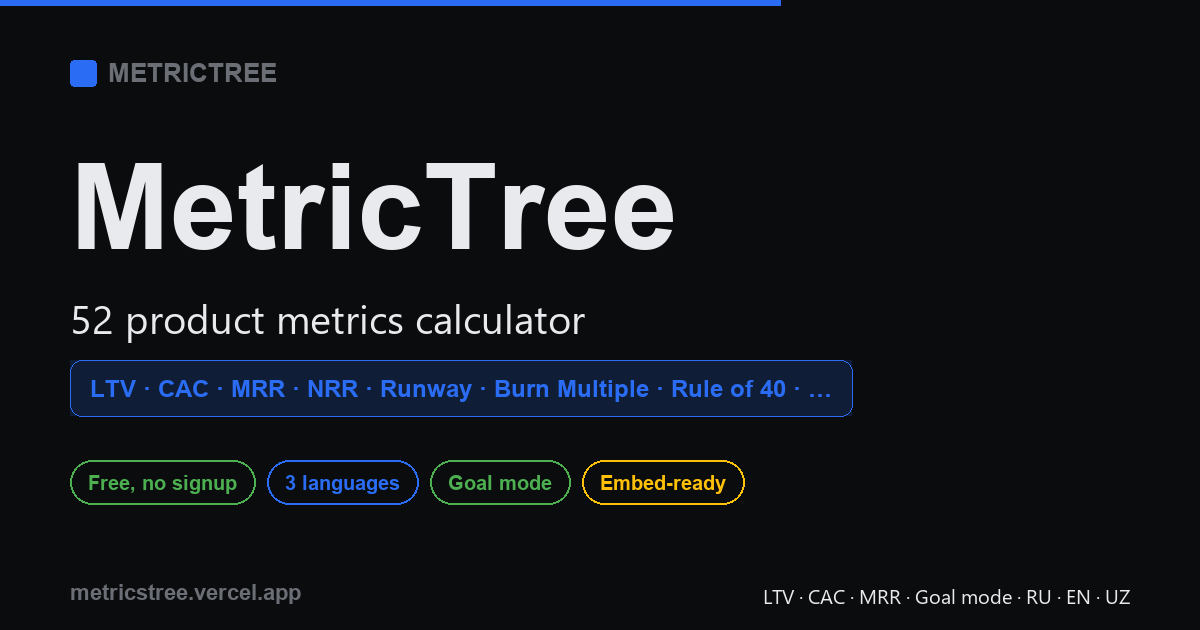
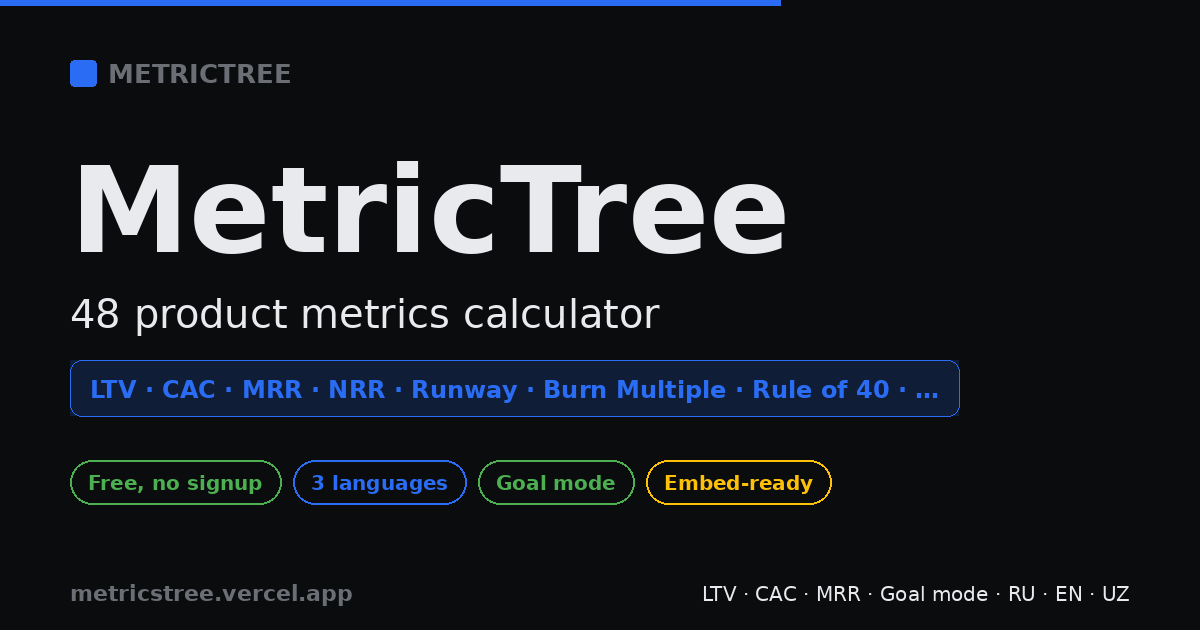
fix(a11y,brand): underline content links + regenerate og-image
- Links in prose contexts are now underlined (not color-only), addressing WCAG
  1.4.1 "use of color" for the ~4.3:1 accent links, while keeping them blue:
  - app.css .deep-content-body a: solid underline (was dotted bottom-border)
  - app.css .about-body a: always underlined (was hover-only)
  - build-blog.mjs: article a underlined in blog posts (regenerated)
  Nav, buttons, cards and share pills keep their own (non-underlined) styles.
- og-image.png regenerated via generate_og.py (now DejaVu-capable on Linux):
  shows the correct "48 product metrics" (was a stale "52" baked into the PNG).

Verified: validate-site ✓, unit tests 9/9 ✓, pipeline idempotent.

https://claude.ai/code/session_01K1PjeSS3hHKaEsyr3gcs3k

diff --git a/app.css b/app.css
@@ -1127,10 +1127,9 @@
             font-family: 'JetBrains Mono','Menlo',monospace;
         }
         .deep-content-body a {
-            color: var(--accent); text-decoration: none;
-            border-bottom: 1px dotted var(--accent);
+            color: var(--accent); text-decoration: underline; text-underline-offset: 2px;
         }
-        .deep-content-body a:hover { border-bottom-style: solid; }
+        .deep-content-body a:hover { text-decoration-thickness: 2px; }
         .deep-content-body b, .deep-content-body strong { color: var(--text-1); }
         body.embed .deep-content { display: none; }
 
@@ -1747,7 +1746,7 @@
         .about-body ul { padding-left: 1.2rem; margin-bottom: 0.5rem; }
         .about-body ul li { margin-bottom: 0.35rem; }
         .about-body strong { color: var(--text-1); }
-        .about-body a { color: var(--accent); text-decoration: none; font-weight: 600; }
+        .about-body a { color: var(--accent); text-decoration: underline; text-underline-offset: 2px; font-weight: 600; }
         .about-body a:hover { text-decoration: underline; }
         body.embed .about-modal { display: none !important; }
 

diff --git a/blog/10-pm-metrics-2026.html b/blog/10-pm-metrics-2026.html
@@ -68,6 +68,7 @@ h3 { font-size: 1.1rem; margin: 1.4rem 0 0.4rem; }
 p { margin: 0.85rem 0; }
 a { color: var(--accent); text-decoration: none; }
 a:hover { text-decoration: underline; }
+article a { color: var(--accent); text-decoration: underline; text-underline-offset: 2px; }
 ul, ol { padding-left: 1.4rem; }
 li { margin: 0.3rem 0; }
 code { background: rgba(0,0,0,0.3); padding: 0.12rem 0.4rem; border-radius: 0.25rem; font-size: 0.92em; }

diff --git a/blog/aov-ecommerce-growth.html b/blog/aov-ecommerce-growth.html
@@ -68,6 +68,7 @@ h3 { font-size: 1.1rem; margin: 1.4rem 0 0.4rem; }
 p { margin: 0.85rem 0; }
 a { color: var(--accent); text-decoration: none; }
 a:hover { text-decoration: underline; }
+article a { color: var(--accent); text-decoration: underline; text-underline-offset: 2px; }
 ul, ol { padding-left: 1.4rem; }
 li { margin: 0.3rem 0; }
 code { background: rgba(0,0,0,0.3); padding: 0.12rem 0.4rem; border-radius: 0.25rem; font-size: 0.92em; }

diff --git a/blog/arpdau-mobile-games.html b/blog/arpdau-mobile-games.html
@@ -68,6 +68,7 @@ h3 { font-size: 1.1rem; margin: 1.4rem 0 0.4rem; }
 p { margin: 0.85rem 0; }
 a { color: var(--accent); text-decoration: none; }
 a:hover { text-decoration: underline; }
+article a { color: var(--accent); text-decoration: underline; text-underline-offset: 2px; }
 ul, ol { padding-left: 1.4rem; }
 li { margin: 0.3rem 0; }
 code { background: rgba(0,0,0,0.3); padding: 0.12rem 0.4rem; border-radius: 0.25rem; font-size: 0.92em; }

diff --git a/blog/burn-multiple-saas-2026.html b/blog/burn-multiple-saas-2026.html
@@ -68,6 +68,7 @@ h3 { font-size: 1.1rem; margin: 1.4rem 0 0.4rem; }
 p { margin: 0.85rem 0; }
 a { color: var(--accent); text-decoration: none; }
 a:hover { text-decoration: underline; }
+article a { color: var(--accent); text-decoration: underline; text-underline-offset: 2px; }
 ul, ol { padding-left: 1.4rem; }
 li { margin: 0.3rem 0; }
 code { background: rgba(0,0,0,0.3); padding: 0.12rem 0.4rem; border-radius: 0.25rem; font-size: 0.92em; }

diff --git a/blog/cac-payback-period.html b/blog/cac-payback-period.html
@@ -68,6 +68,7 @@ h3 { font-size: 1.1rem; margin: 1.4rem 0 0.4rem; }
 p { margin: 0.85rem 0; }
 a { color: var(--accent); text-decoration: none; }
 a:hover { text-decoration: underline; }
+article a { color: var(--accent); text-decoration: underline; text-underline-offset: 2px; }
 ul, ol { padding-left: 1.4rem; }
 li { margin: 0.3rem 0; }
 code { background: rgba(0,0,0,0.3); padding: 0.12rem 0.4rem; border-radius: 0.25rem; font-size: 0.92em; }

diff --git a/blog/churn-reduction-saas.html b/blog/churn-reduction-saas.html
@@ -68,6 +68,7 @@ h3 { font-size: 1.1rem; margin: 1.4rem 0 0.4rem; }
 p { margin: 0.85rem 0; }
 a { color: var(--accent); text-decoration: none; }
 a:hover { text-decoration: underline; }
+article a { color: var(--accent); text-decoration: underline; text-underline-offset: 2px; }
 ul, ol { padding-left: 1.4rem; }
 li { margin: 0.3rem 0; }
 code { background: rgba(0,0,0,0.3); padding: 0.12rem 0.4rem; border-radius: 0.25rem; font-size: 0.92em; }

diff --git a/blog/dau-mau-stickiness.html b/blog/dau-mau-stickiness.html
@@ -68,6 +68,7 @@ h3 { font-size: 1.1rem; margin: 1.4rem 0 0.4rem; }
 p { margin: 0.85rem 0; }
 a { color: var(--accent); text-decoration: none; }
 a:hover { text-decoration: underline; }
+article a { color: var(--accent); text-decoration: underline; text-underline-offset: 2px; }
 ul, ol { padding-left: 1.4rem; }
 li { margin: 0.3rem 0; }
 code { background: rgba(0,0,0,0.3); padding: 0.12rem 0.4rem; border-radius: 0.25rem; font-size: 0.92em; }

diff --git a/blog/gross-margin-saas.html b/blog/gross-margin-saas.html
@@ -68,6 +68,7 @@ h3 { font-size: 1.1rem; margin: 1.4rem 0 0.4rem; }
 p { margin: 0.85rem 0; }
 a { color: var(--accent); text-decoration: none; }
 a:hover { text-decoration: underline; }
+article a { color: var(--accent); text-decoration: underline; text-underline-offset: 2px; }
 ul, ol { padding-left: 1.4rem; }
 li { margin: 0.3rem 0; }
 code { background: rgba(0,0,0,0.3); padding: 0.12rem 0.4rem; border-radius: 0.25rem; font-size: 0.92em; }

diff --git a/blog/ltv-cac-unit-economics.html b/blog/ltv-cac-unit-economics.html
@@ -68,6 +68,7 @@ h3 { font-size: 1.1rem; margin: 1.4rem 0 0.4rem; }
 p { margin: 0.85rem 0; }
 a { color: var(--accent); text-decoration: none; }
 a:hover { text-decoration: underline; }
+article a { color: var(--accent); text-decoration: underline; text-underline-offset: 2px; }
 ul, ol { padding-left: 1.4rem; }
 li { margin: 0.3rem 0; }
 code { background: rgba(0,0,0,0.3); padding: 0.12rem 0.4rem; border-radius: 0.25rem; font-size: 0.92em; }

diff --git a/blog/magic-number-saas.html b/blog/magic-number-saas.html
@@ -68,6 +68,7 @@ h3 { font-size: 1.1rem; margin: 1.4rem 0 0.4rem; }
 p { margin: 0.85rem 0; }
 a { color: var(--accent); text-decoration: none; }
 a:hover { text-decoration: underline; }
+article a { color: var(--accent); text-decoration: underline; text-underline-offset: 2px; }
 ul, ol { padding-left: 1.4rem; }
 li { margin: 0.3rem 0; }
 code { background: rgba(0,0,0,0.3); padding: 0.12rem 0.4rem; border-radius: 0.25rem; font-size: 0.92em; }

diff --git a/blog/mrr-growth-rate-yc.html b/blog/mrr-growth-rate-yc.html
@@ -68,6 +68,7 @@ h3 { font-size: 1.1rem; margin: 1.4rem 0 0.4rem; }
 p { margin: 0.85rem 0; }
 a { color: var(--accent); text-decoration: none; }
 a:hover { text-decoration: underline; }
+article a { color: var(--accent); text-decoration: underline; text-underline-offset: 2px; }
 ul, ol { padding-left: 1.4rem; }
 li { margin: 0.3rem 0; }
 code { background: rgba(0,0,0,0.3); padding: 0.12rem 0.4rem; border-radius: 0.25rem; font-size: 0.92em; }
